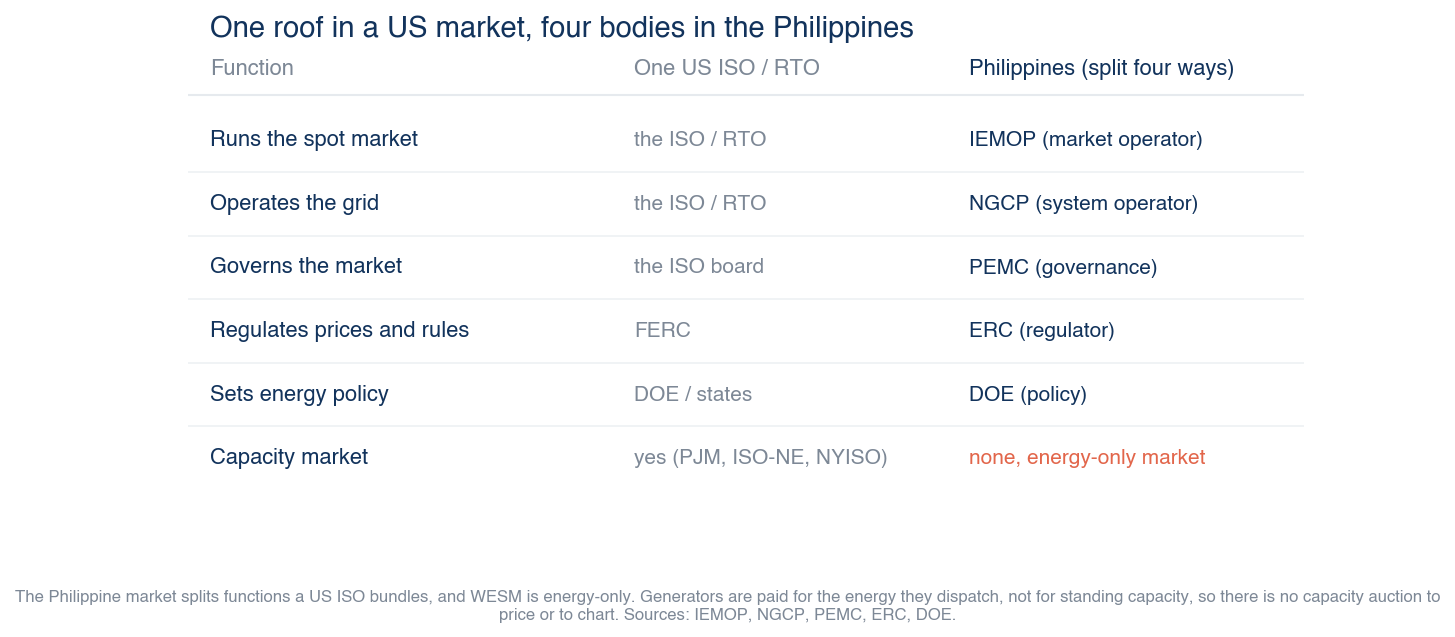
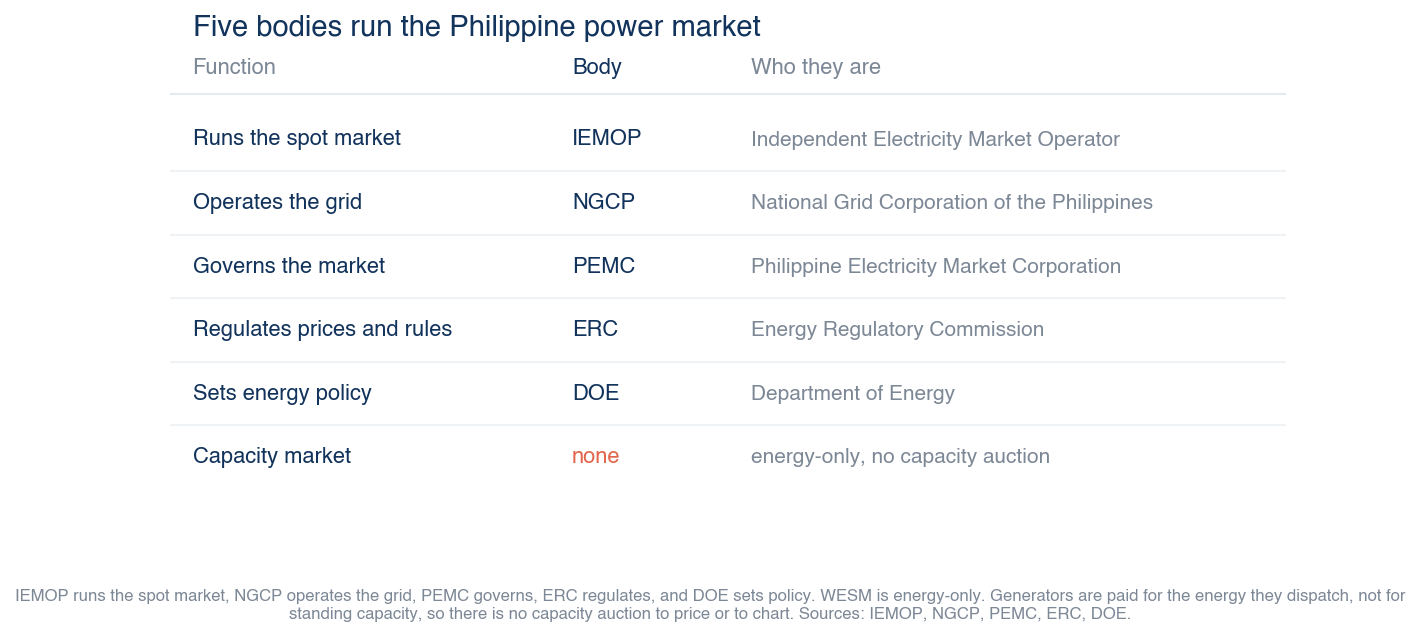
De-US-ify framing: PH-native data sources, PH-only WESM-roles figure, US-ISO qa gate
README related-projects becomes a Where-the-data-comes-from list (IEMOP, NGCP TDP,
DOE Power Statistics, WESM/PEMC, ICSC, DataCenterMap). WESM-roles figure reframed to
the five PH bodies with no US column. Scrubbed gridbill-us/US-ISO refs from research
and roadmap docs and script docstrings. qa_gate now fails on US-ISO names so the US
framing cannot creep back.

diff --git a/scripts/wesm_roles.py b/scripts/wesm_roles.py
@@ -1,9 +1,8 @@
 #!/usr/bin/env python3
-"""Who-does-what in the Philippine power market, ported in spirit from gridbill-us
-wesm_us_roles.py. One US ISO or RTO bundles market operation, grid operation, and a
-capacity market under one roof; the Philippine setup splits those across four bodies,
-and WESM runs an energy-only market with no centralized capacity auction. This figure
-is why gridbill-ph has no capacity-market chart: there is no capacity market to chart.
+"""Who runs the Philippine power market. Five bodies split the functions of the
+electricity market between them, and WESM runs an energy-only market with no
+centralized capacity auction. This figure is why gridbill-ph has no capacity-market
+chart: there is no capacity market to chart.
 
 Static explainer, no archive data. Output docs/wesm-roles.png.
 """
@@ -21,14 +20,14 @@ vz.apply()
 ROOT = os.path.dirname(os.path.dirname(os.path.abspath(__file__)))
 OUT = os.path.join(ROOT, "docs", "wesm-roles.png")
 
-# function -> (US, PH body). Kept short and true; sources in methodology.
+# function -> (body, one-line role). Kept short and true; sources in methodology.
 ROWS = [
-    ("Runs the spot market", "the ISO / RTO", "IEMOP (market operator)"),
-    ("Operates the grid", "the ISO / RTO", "NGCP (system operator)"),
-    ("Governs the market", "the ISO board", "PEMC (governance)"),
-    ("Regulates prices and rules", "FERC", "ERC (regulator)"),
-    ("Sets energy policy", "DOE / states", "DOE (policy)"),
-    ("Capacity market", "yes (PJM, ISO-NE, NYISO)", "none, energy-only market"),
+    ("Runs the spot market", "IEMOP", "Independent Electricity Market Operator"),
+    ("Operates the grid", "NGCP", "National Grid Corporation of the Philippines"),
+    ("Governs the market", "PEMC", "Philippine Electricity Market Corporation"),
+    ("Regulates prices and rules", "ERC", "Energy Regulatory Commission"),
+    ("Sets energy policy", "DOE", "Department of Energy"),
+    ("Capacity market", "none", "energy-only, no capacity auction"),
 ]
 
 
@@ -36,37 +35,37 @@ def main():
     fig, ax = plt.subplots(figsize=(9.6, 4.4))
     ax.axis("off")
     n = len(ROWS)
-    x_fn, x_us, x_ph = 0.02, 0.40, 0.70
+    x_fn, x_body, x_role = 0.02, 0.36, 0.52
     y0, dy = 0.82, 0.125
 
     ax.text(x_fn, 0.95, "Function", fontsize=10.5, fontweight="bold", color=vz.MUTE)
-    ax.text(x_us, 0.95, "One US ISO / RTO", fontsize=10.5, fontweight="bold",
+    ax.text(x_body, 0.95, "Body", fontsize=10.5, fontweight="bold", color=vz.NAVY)
+    ax.text(x_role, 0.95, "Who they are", fontsize=10.5, fontweight="bold",
             color=vz.MUTE)
-    ax.text(x_ph, 0.95, "Philippines (split four ways)", fontsize=10.5,
-            fontweight="bold", color=vz.NAVY)
     ax.plot([0.0, 1.0], [0.91, 0.91], color=vz.GRID, lw=1)
 
-    for i, (fn, us, ph) in enumerate(ROWS):
+    for i, (fn, body, role) in enumerate(ROWS):
         y = y0 - i * dy
         last = i == n - 1
         ax.text(x_fn, y, fn, fontsize=10.5, color=vz.NAVY,
                 fontweight="bold" if last else "normal", va="center")
-        ax.text(x_us, y, us, fontsize=10, color=vz.MUTE, va="center")
-        ax.text(x_ph, y, ph, fontsize=10,
+        ax.text(x_body, y, body, fontsize=10.5,
                 color=vz.CORAL if last else vz.NAVY,
-                fontweight="bold" if last else "normal", va="center")
+                fontweight="bold", va="center")
+        ax.text(x_role, y, role, fontsize=10, color=vz.MUTE, va="center")
         if not last:
             ax.plot([0.0, 1.0], [y - dy / 2, y - dy / 2], color=vz.FILL, lw=0.8)
 
     ax.set_xlim(0, 1)
     ax.set_ylim(0, 1)
-    ax.set_title("One roof in a US market, four bodies in the Philippines",
+    ax.set_title("Five bodies run the Philippine power market",
                  fontsize=14, color=vz.NAVY, loc="left", x=0.02)
     vz.caption(fig,
-               "The Philippine market splits functions a US ISO bundles, and WESM is "
-               "energy-only. Generators are paid for the energy they dispatch, not for "
-               "standing capacity, so there is no capacity auction to price or to "
-               "chart. Sources: IEMOP, NGCP, PEMC, ERC, DOE.",
+               "IEMOP runs the spot market, NGCP operates the grid, PEMC governs, ERC "
+               "regulates, and DOE sets policy. WESM is energy-only. Generators are "
+               "paid for the energy they dispatch, not for standing capacity, so there "
+               "is no capacity auction to price or to chart. Sources: IEMOP, NGCP, "
+               "PEMC, ERC, DOE.",
                y=0.02)
     fig.savefig(OUT, dpi=150, bbox_inches="tight", facecolor="white")
     plt.close(fig)

diff --git a/tests/qa_gate.py b/tests/qa_gate.py
@@ -33,6 +33,16 @@ BANNED = [
      r"bill(s)?\s+(rose|up|jumped|climbed)\s+38\.5\s*%"),
 ]
 
+# US-market framing must not creep back into user-facing artifacts. This map stands
+# on Philippine terms only; a US-ISO name in the copy reads as a ported artifact.
+# Word-boundary matched so SPP/MISO/PJM don't fire inside ordinary words.
+US_FRAMING = [
+    r"\bERCOT\b", r"\bPJM\b", r"\bNYISO\b", r"\bISO-NE\b", r"\bMISO\b",
+    r"\bSPP\b", r"\bCAISO\b", r"\bGridStatus\b", r"\bgridstatus\b",
+    r"\bgridbill-us\b", r"\bElectricity Maps\b", r"\belectricitymaps\b",
+    r"\bEPRI\b", r"\bDCFlex\b", r"\bWattTime\b",
+]
+
 AI_JARGON = [
     "delve", "leverage", "utilize", "seamless", "robust", "tapestry", "pivotal",
     "in today's", "it's important to note", "game-changer", "cutting-edge",
@@ -65,6 +75,11 @@ def scan(path, text):
     for label, rx in BANNED:
         if re.search(rx, text, re.I):
             fails.append(f"{base}: BANNED framing {label}")
+    for rx in US_FRAMING:
+        m = re.search(rx, text)
+        if m:
+            fails.append(f"{base}: US-market framing '{m.group(0)}' "
+                         "(map stands on PH terms only)")
     for j in AI_JARGON:
         if j in low:
             fails.append(f"{base}: AI-jargon '{j}'")

diff --git a/scripts/story_montage.py b/scripts/story_montage.py
@@ -1,7 +1,6 @@
 #!/usr/bin/env python3
 """One attachable view for LinkedIn: tile the figure panels into a single GIF with
-plain-English labels, so the whole gridbill-ph story reads in one frame. Ported from
-gridbill-us scripts/story_montage.py.
+plain-English labels, so the whole gridbill-ph story reads in one frame.
 
 Thesis: the choke points already bind daily and the market prices them; the announced
 data-center wave is the size of the margin; and a WESM swing is only a lagged slice of

diff --git a/scripts/small_multiples.py b/scripts/small_multiples.py
@@ -1,6 +1,5 @@
 #!/usr/bin/env python3
-"""Small-multiples, ported from gridbill-us small_multiples.py: the three island
-grids side by side, each showing its own price-vs-load shape. Luzon carries the
+"""Small-multiples: the three island grids side by side, each showing its own price-vs-load shape. Luzon carries the
 volume and a long climb; the smaller grids are flatter until they run tight. One row
 makes the point that the same load does different things on different islands.
 

diff --git a/scripts/bill_wedge.py b/scripts/bill_wedge.py
@@ -1,6 +1,5 @@
 #!/usr/bin/env python3
-"""The wholesale-to-retail wedge, ported from gridbill-us but built on the actual
-Meralco peso breakdown instead of approximate shares. The lesson is the same: a move
+"""The wholesale-to-retail wedge, built on the actual Meralco peso breakdown. A move
 in the WESM wholesale price only touches the generation slice of the bill, and only
 through a monthly pass-through, so a wholesale swing is never a one-for-one bill swing.
 

diff --git a/scripts/price_shape_gif.py b/scripts/price_shape_gif.py
@@ -1,6 +1,5 @@
 #!/usr/bin/env python3
-"""Animated GIF, ported from gridbill-us price_gif.py: the price is a shape, not a
-number. A data center plugs in the same power every hour, but the effect on the WESM
+"""Animated GIF: the price is a shape, not a number. A data center plugs in the same power every hour, but the effect on the WESM
 price depends on how busy the grid already is. Nearly nothing when there is room, a
 jump when the grid is full.
 

diff --git a/scripts/supply_demand_day_gif.py b/scripts/supply_demand_day_gif.py
@@ -1,6 +1,5 @@
 #!/usr/bin/env python3
-"""Animated GIF, ported from gridbill-us supply_demand_day.py: one real Luzon day,
-dispatched generation meeting demand through 24 hours, with the WESM price tracking
+"""Animated GIF: one real Luzon day, dispatched generation meeting demand through 24 hours, with the WESM price tracking
 it. Deep supply keeps the price low most of the day; it climbs into the evening peak
 and spikes when the grid runs tight.
 

diff --git a/scripts/vizstyle.py b/scripts/vizstyle.py
@@ -4,7 +4,6 @@
 Tufte: maximize data-ink, drop chartjunk (no top/right spines, faint y-grid only, no
 heavy borders), direct labels over legends, standalone with a sourced caption.
 MBB palette: navy / steel blue / coral, one muted grey for context, on white.
-Ported from gridbill-us scripts/vizstyle.py so the sibling maps share one look.
 
 Usage in a chart script:
     import vizstyle as vz

diff --git a/docs/research-launch-20260705.md b/docs/research-launch-20260705.md
@@ -8,45 +8,38 @@ search snippets only, [FIRST-PARTY] we re-fetched it ourselves this session.
 
 ## Part 1: prior art, and the honest novelty claim
 
-The survey covered GridStatus.io, ERCOT/PJM/MISO/SPP/NYISO dashboards, EIA Grid
-Monitor, Electricity Maps, Ember, WattTime, EPRI DCFlex, LBNL, IEEFA, Bloomberg and
-Washington Post graphics, IEMOP's own pages, WESM Market Watch, ICSC, NGCP/DOE, and
-independent market monitor reports. The ingredient-by-ingredient verdict:
+The survey covered the Philippine sources this project reads and reconciles against,
+plus international grid-data projects for method precedent: IEMOP's own market-data
+pages and monthly reports, WESM Market Watch, NGCP and DOE outlooks, ICSC's Power
+Outlook, and independent market-monitor reports. The ingredient-by-ingredient
+verdict:
 
-- Named-equipment congestion receipts are a solved, published technique in the US.
-  ERCOT's "SCED Shadow Prices and Binding Transmission Constraints" product
-  (NP6-86-CD) names the overloaded element, from/to stations, kV, and shadow price
-  per binding event, and its public display duration is about 7 days
-  (https://www.ercot.com/mp/data-products/data-product-details?id=NP6-86-CD)
-  [VERIFIED-FETCHED]. Market monitors rank constraints annually in static PDFs.
-- Archiving an operator's self-deleting window is GridStatus.io's core value
-  proposition for US ISOs, as a hosted commercial database
-  (https://github.com/gridstatus/gridstatus) [VERIFIED-FETCHED].
-- Nobody does either for IEMOP/WESM. IEMOP publishes the "congestions manifesting"
-  files but its public pages roll off, and the one-year MIND repository is
-  restricted to registered trading participants [SEARCH-RESULT]. No third party
-  archives the files; no constraint league table for the Philippine grid exists.
-- No surveyed project anywhere fuses the three questions in one reproducible
-  artifact: named congestion receipts, announced data-center siting against the
+- Named-equipment congestion receipts are, as a technique, published elsewhere: some
+  market operators expose a shadow-price / binding-constraint feed that names the
+  overloaded element, stations, kV, and price per event, on a short (roughly weekly)
+  public window [SEARCH-RESULT]. The technique is not the new part.
+- Nobody does it for IEMOP/WESM. IEMOP publishes the "congestions manifesting" files
+  but its public pages roll off after a rolling window, and the one-year MIND
+  repository is restricted to registered trading participants [SEARCH-RESULT]. No
+  third party archives the files; no constraint league table for the Philippine grid
+  exists.
+- No surveyed project fuses the three questions in one reproducible artifact for the
+  Philippines: named congestion receipts, announced data-center siting against the
   importing load pocket, and the wholesale price next to the retail (Meralco
-  generation charge) pass-through. Bloomberg's 2025 graphic
-  (https://www.bloomberg.com/graphics/2025-ai-data-centers-electricity-prices/,
-  built on GridStatus data) is wholesale-only, US, static [SEARCH-RESULT]. EPRI
-  DCFlex (https://dcflex.epri.com/) frames adequacy under constraints without
-  geography or a bill [SEARCH-RESULT]. ICSC's Philippine Power Outlook
-  (https://icsc.ngo/tag/philippine-power-outlook/) is the PH-native neighbor for
-  the supply question, as an annual PDF [SEARCH-RESULT].
+  generation charge) pass-through. ICSC's Philippine Power Outlook
+  (https://icsc.ngo/tag/philippine-power-outlook/) is the PH-native neighbor for the
+  supply question, as an annual PDF [SEARCH-RESULT].
 
-So the README positioning is: the techniques have honest US ancestors; the assembly
-and the geography are the new thing. Even ERCOT's receipts self-delete after about
-a week, which is exactly the argument for a public archive. The claim "first archive
-and constraint league for the Philippine market, and the only artifact tying receipts
-to data-center siting and the retail bill" survives the survey; any stronger claim
-does not.
+So the README positioning is PH-native: the first public archive and constraint
+league for the Philippine market, and the only artifact tying IEMOP receipts to
+data-center siting and the Meralco bill. IEMOP's own files self-delete after a
+rolling window, which is exactly the argument for a public archive. That claim
+survives the survey; any stronger claim does not.
 
-Related-projects entries adopted for the README: gridstatus, ERCOT NP6-86-CD,
-Electricity Maps, Ember, EPRI DCFlex, LBNL 2024 data-center report, ICSC Power
-Outlook (URLs in the README section).
+Where-the-data-comes-from entries adopted for the README are the Philippine primary
+sources: IEMOP market data and monthly reports, NGCP TDP, DOE Power Statistics,
+WESM/PEMC, ICSC Power Outlook, and the public data-center inventories (URLs in the
+README section).
 
 Caveat kept honest: the "~90-day rolling window" figure is our own first-party
 measurement of the min_date carried in each IEMOP market-data page's config
@@ -149,9 +142,9 @@ regional prices, margin MW; (3) the Visayas streak stays framed "ended Jul 1."
 
 ## Part 4: README first-screen and hero-media patterns
 
-From reading the actual README markdown of datasette, kepler.gl,
-electricitymaps-contrib, gridstatus, streamlit, openfreemap, tar1090, deck.gl,
-protomaps, and Overture [VERIFIED-FETCHED each]:
+From reading the actual README markdown of a set of best-in-class open mapping and
+data repos (datasette, kepler.gl, streamlit, openfreemap, tar1090, deck.gl,
+protomaps, Overture) [VERIFIED-FETCHED each]:
 
 - Almost none of the best-in-class repos lead with an animated GIF; heroes are
   logos or linked screenshots, and Streamlit's GIF sits below the fold. A good

diff --git a/README.md b/README.md
@@ -99,13 +99,14 @@ generation-price join: [`web/data/prices.json`](web/data/prices.json) and
 ### The same load, three different islands
 
 Each island grid answers a new load differently. Luzon carries the volume and climbs
-a long way; the smaller grids stay flat until they run tight. And unlike a US market,
-WESM is energy-only, so there is no capacity auction to price, which is why this
-project has no capacity-market chart.
+a long way; the smaller grids stay flat until they run tight. WESM is an energy-only
+market: generators are paid for the energy they dispatch, not for standing capacity,
+so there is no capacity auction to price, which is why this project has no
+capacity-market chart.
 
 ![Three small-multiple panels, one per island grid, each plotting the average WESM price against dispatched generation: Luzon a long climb from 3 to 14 pesos, Visayas rising then easing, Mindanao climbing steeply past 22 pesos](docs/small-multiples.png)
 
-![A table comparing one US ISO or RTO against the Philippine split: IEMOP runs the spot market, NGCP operates the grid, PEMC governs, ERC regulates, DOE sets policy, and the last row shows the US has capacity markets while WESM has none, energy-only](docs/wesm-roles.png)
+![Who runs the Philippine power market: IEMOP runs the spot market, NGCP operates the grid, PEMC governs, ERC regulates, DOE sets policy, and the last row notes WESM is energy-only with no capacity auction](docs/wesm-roles.png)
 
 ## What this is
 
@@ -142,33 +143,37 @@ project has no capacity-market chart.
   separation, not a per-node charge), so that layer stays archived, not displayed.
   Full resolution in [`docs/research-launch-20260705.md`](docs/research-launch-20260705.md).
 
-## Related projects
+## Where the data comes from
 
-Honest adjacent work. The techniques here have US ancestors; the assembly and the
-Philippine geography are the new part.
+The primary Philippine sources this project reads, archives, or reconciles against.
+Every number on the map traces back to one of these.
 
-- [GridStatus / `gridstatus`](https://github.com/gridstatus/gridstatus). open Python
-  API to US ISO supply, demand, and LMP data plus a hosted nodal price and congestion
-  map; the closest sibling to this method, and a durable archive of ISO data, for the
-  US instead of WESM.
-- [ERCOT SCED Shadow Prices and Binding Transmission Constraints (NP6-86-CD)](https://www.ercot.com/mp/data-products/data-product-details?id=NP6-86-CD).
-  the US analog of IEMOP's "congestions manifesting" file: names the overloaded
-  element, stations, kV, and shadow price. Published with a ~7-day window, which is
-  why an archive is needed.
-- [Electricity Maps](https://app.electricitymaps.com/). live global map of grid
-  carbon intensity and generation mix with an open parser repo; the reference live
-  grid map, on emissions rather than congestion or price.
-- [Ember Electricity Data Explorer](https://ember-energy.org/data/electricity-data-explorer/).
-  fully open (CC-BY-4.0) global electricity dataset and API; the open-data licensing
-  model this project follows, at national and annual granularity.
-- [EPRI DCFlex](https://dcflex.epri.com/). industry initiative treating data centers
-  as flexible grid assets and asking how much load today's grid can integrate under
-  real constraints; the adjacent "can the grid host the wave?" question, US and
-  framework-level.
+- [IEMOP market data](https://www.iemop.ph/market-data/). the Independent Electricity
+  Market Operator's public files: congestions manifesting (named binding equipment per
+  five-minute interval), regional summaries, load-weighted average prices, HVDC limits,
+  outage schedules. The rolling ~90-day window is what `pipeline/archive_iemop.py`
+  turns into a permanent archive.
+- [IEMOP monthly reports](https://www.iemop.ph/news/). the operator's narrative on each
+  billing month: which links bound, why prices moved, supply-and-demand margins. The
+  prose the archive turns into receipts.
+- [NGCP Transmission Development Plan](https://www.ngcp.ph/tdp). the system operator's
+  2025-2050 plan: the corridors, the reinforcement projects, and the schedule that
+  says when a choke point is meant to be relieved.
+- [DOE Power Statistics](https://doe.gov.ph/electric-power/electric-power-statistics).
+  the Department of Energy's installed and dependable capacity by grid and by fuel,
+  and the list of existing power plants; the reference the dispatch fleet is
+  reconciled to.
+- [WESM / PEMC](https://www.wesm.ph/). the spot market rules and the Philippine
+  Electricity Market Corporation's governance; why WESM is energy-only and how the
+  regional price separation this map shows is settled.
 - [ICSC Philippine Power Outlook](https://icsc.ngo/tag/philippine-power-outlook/).
-  annual PH grid-adequacy analysis (reserve margins, alert risk, HVDC constraints)
-  built on NGCP and DOE outlooks; the PH-native neighbor to the supply question, in
-  static-report form.
+  the Institute for Climate and Sustainable Cities' annual PH grid-adequacy analysis
+  (reserve margins, alert risk, HVDC constraints) built on NGCP and DOE outlooks; the
+  neighbor to the supply question, in static-report form.
+- [DataCenterMap](https://www.datacentermap.com/philippines/) and
+  [Cushman & Wakefield APAC updates](https://www.cushmanwakefield.com/en/singapore/insights/apac-data-centre-update).
+  the public facility inventories the data-center layer is drawn and cross-checked
+  against (named sites with a citable source each).
 
 ## Reproduce locally
 

diff --git a/docs/enhancement-roadmap-20260705.md b/docs/enhancement-roadmap-20260705.md
@@ -44,8 +44,7 @@ mislabeled or the post has no share image.
    generation charge, and WESM cost; the June system average, three regional prices,
    and margin MW. URLs to watch are in the research doc.
 10. **Privacy-friendly analytics.** One script tag (GoatCounter or Plausible) so the
-    launch is measurable. The sibling gridbill-us shipped without it and could not
-    tell which layer landed.
+    launch is measurable. Without it there is no way to tell which layer landed.
 
 ## Phase 2: new layers (M each, ranked by openness x novelty x honesty-fit)
 
